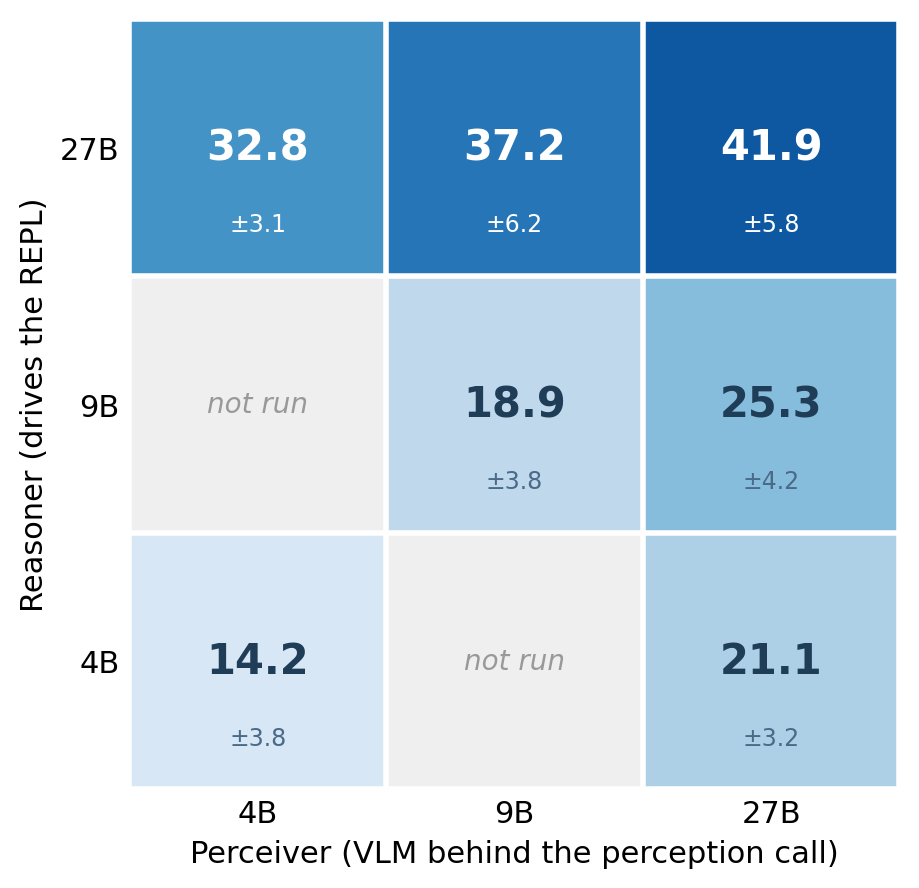
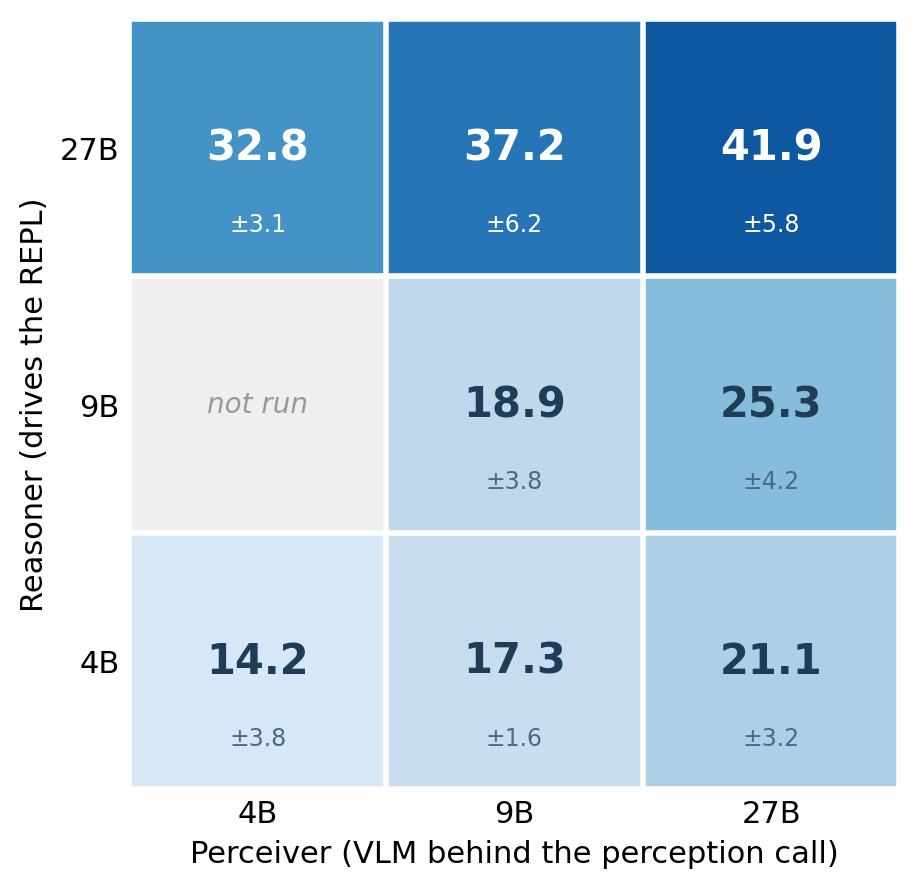
Built site for gh-pages

Changed region(s): [[0.3961, 0.5777, 0.7008, 0.9122]]

diff --git a/posts/perceive-reason-code/index.html b/posts/perceive-reason-code/index.html
@@ -408,7 +408,7 @@ TL;DR
 <h3 data-anchor-id="better-eyes-or-a-better-director">Better eyes, or a better director?</h3>
 <p>The knockouts pin the scaffold’s contribution to perception: swap whole-page ReAct for RLM with the same 27B on both sides, and accuracy jumps from 27 to 42, with nothing changing but how perception is spent. To see where the remaining headroom lives, we scale each half separately: 4B, 9B, and 27B Qwen as the reasoner, crossed with the same three sizes as the VLM behind the perception call.</p>
 <p><img src="f5-matrix.png" class="img-fluid" alt="heatmap of the reasoner-by-VLM matrix: accuracy rises modestly left to right with a stronger VLM and sharply bottom to top with a stronger reasoner"></p>
-<p><strong>Figure 5.</strong> Validation accuracy (ANLS %, mean ± std over 4–8 trials per cell) for each reasoner × VLM pairing of Qwen 3.5 4B/9B/27B, all under the same RLM harness. Grey cells were not run. The 4B- and 9B-reasoner rows use a minimally different prompt variant of the same solver (identical harness and tools); the 27B row uses the exact configuration reported everywhere else in the post.</p>
+<p><strong>Figure 5.</strong> Validation accuracy (ANLS %, mean ± std over 4–8 trials per cell) for each reasoner × VLM pairing of Qwen 3.5 4B/9B/27B, all under the same RLM harness. The grey cell was not run. The 27B row and the 4B-reasoner/9B-VLM cell use the exact configuration reported everywhere else in the post; the remaining cells use a minimally different prompt variant of the same solver (identical harness and tools).</p>
 <p>Read the matrix <strong>across a row</strong>: the reasoner stays fixed and only the eyes improve. Accuracy climbs at every reasoner size, +6.9 with the 4B reasoner, +6.4 with the 9B, and +9.1 end to end on the 27B row (32.8 with 4B eyes, 37.2 with 9B, 41.9 with 27B), all well outside the noise.<a href="#fn2" class="footnote-ref" id="fnref2" role="doc-noteref"><sup>2</sup></a> Better eyes help; they are also the smaller axis.</p>
 <p>Now read <strong>down the rightmost column</strong>: the VLM stays at 27B and the reasoner scales, and accuracy nearly doubles. Does that leverage need the loop? Put the same ladder of reasoners behind ReAct:</p>
 <table class="caption-top table">
